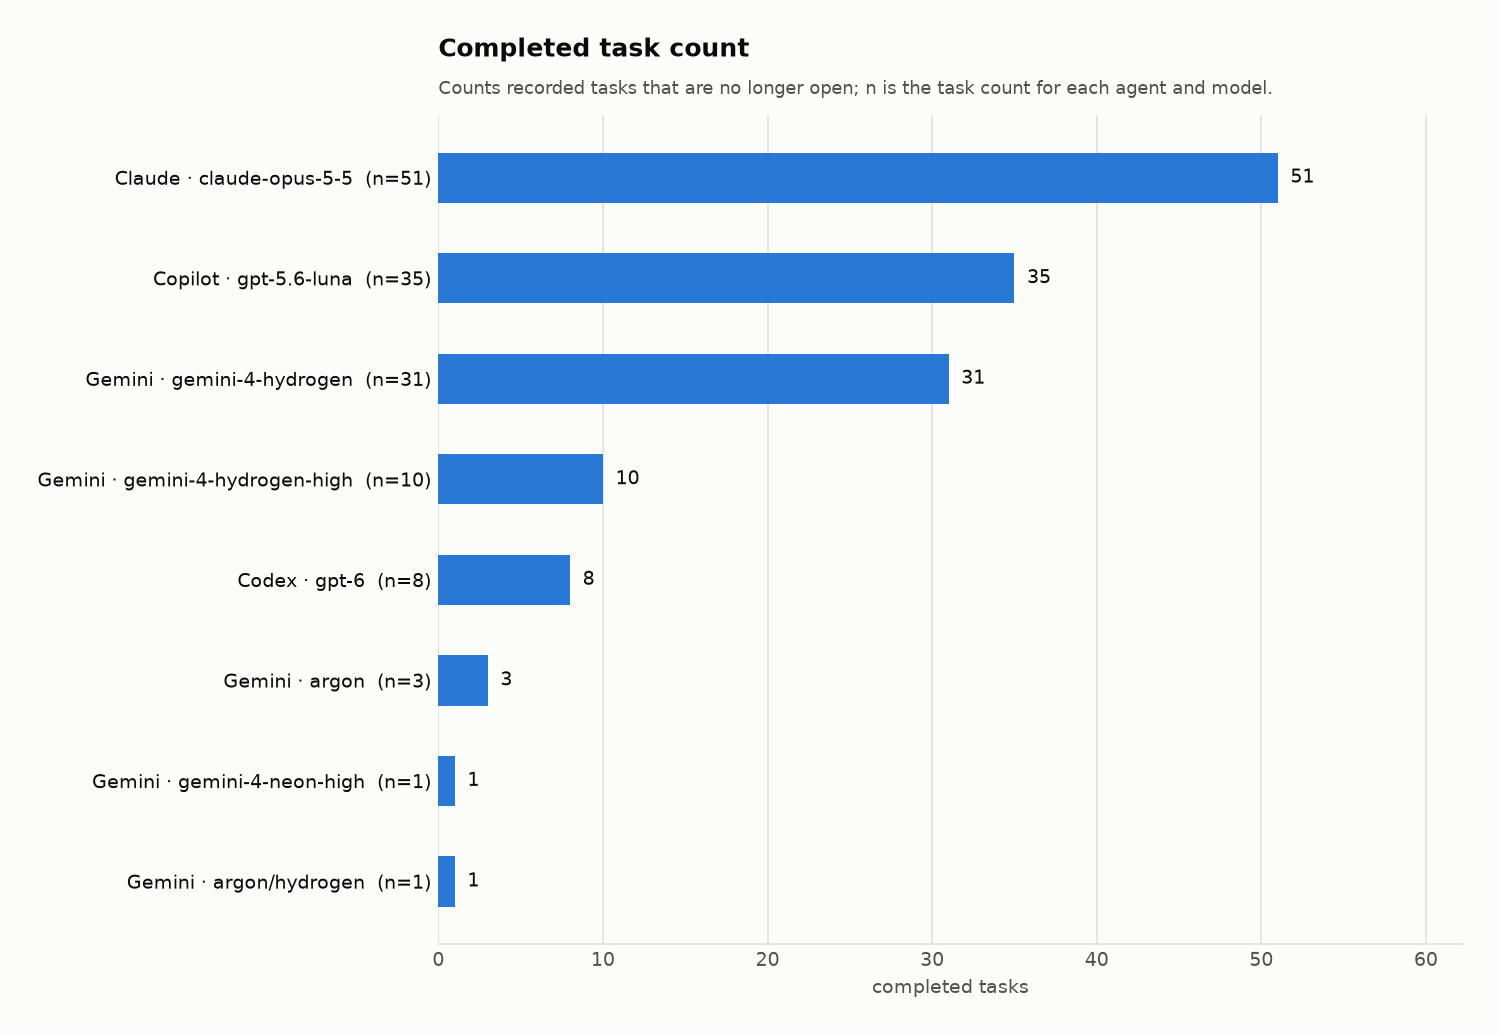
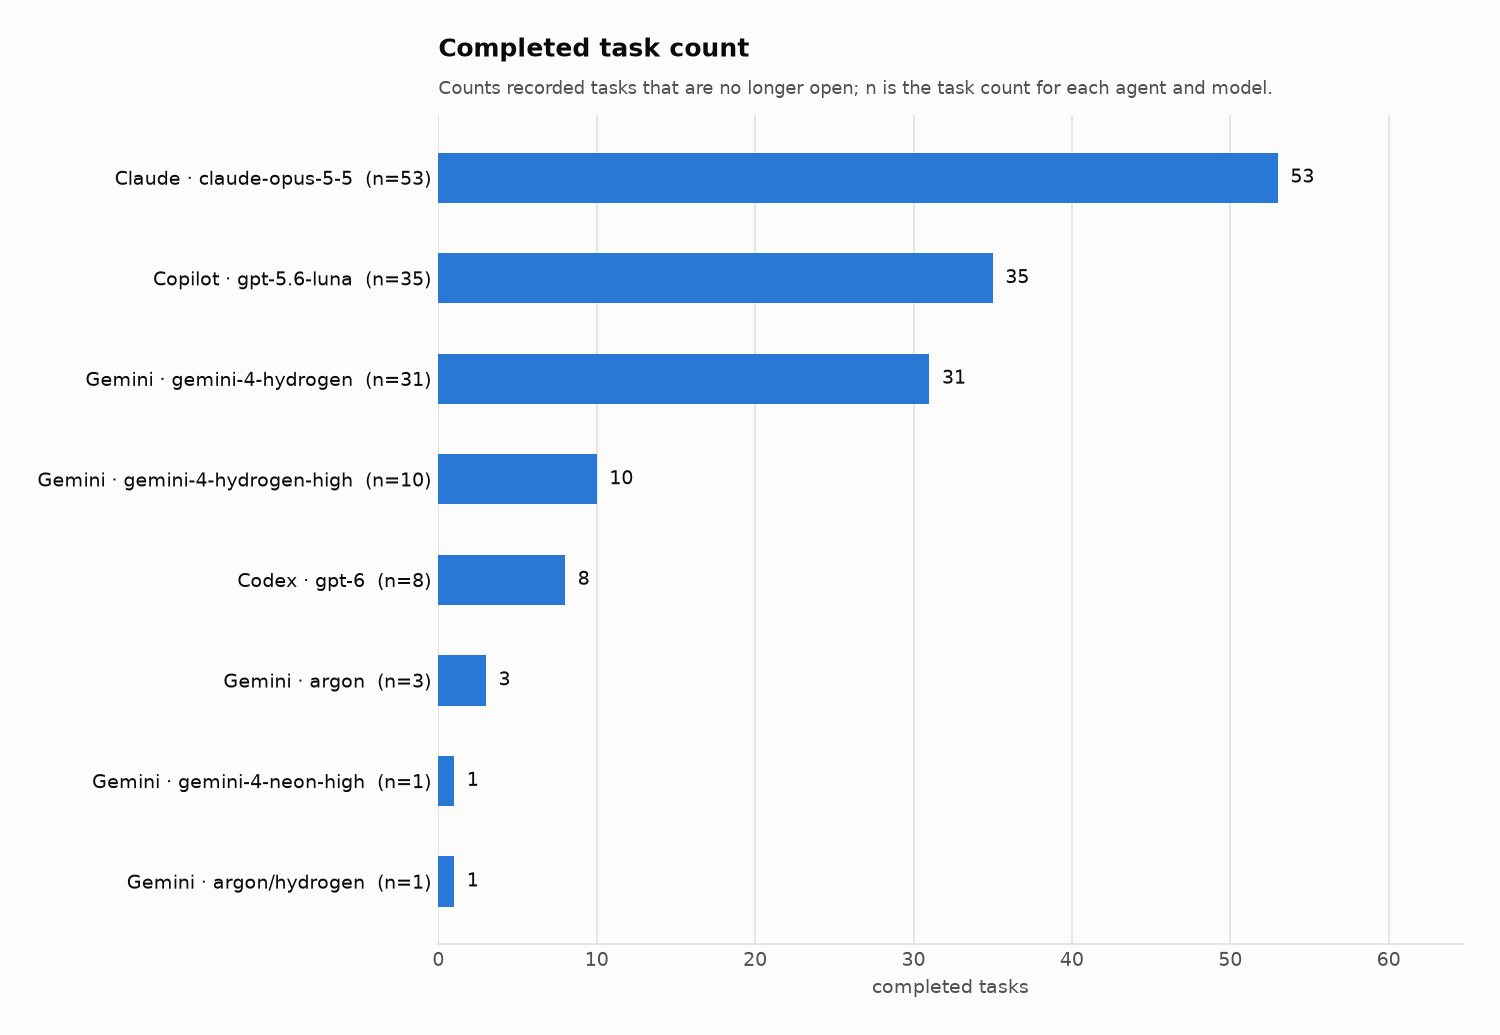
Spawns: never place a soldier inside geometry or another soldier (D66); footstep sync probe (B9)
SpawnPoint.ClearPosition tests the soldier capsule at the chosen spawn and,
when it is blocked by level geometry, an invisible wall or another
soldier, uses the nearest clear NavMesh point on the same floor (rings up
to 4 m), logging each moved spawn point once. Used for the first spawn and
every respawn. The pose check's gait stages now report FOOTSYNC: footstep
events against touchdowns of the visible feet.

diff --git a/Assets/LR2/Runtime/Characters/FirstPersonPoseCheck.cs b/Assets/LR2/Runtime/Characters/FirstPersonPoseCheck.cs
@@ -1217,6 +1217,49 @@ namespace LR2.Characters
         /// world speed along the move direction is the slide. Natural clip speed = (move speed - slide) / LocoSpeed;
         /// set SoldierMovement's *AnimReferenceSpeed to that value for zero foot sliding.
         /// </summary>
+        /// <summary>Touchdown = first frame a visible foot is back within 2 cm of its lowest height after rising 3.5 cm above it.</summary>
+        private static List<float> Touchdowns(List<float> t, List<float> h)
+        {
+            var result = new List<float>();
+            float min = float.MaxValue;
+            foreach (var v in h) min = Mathf.Min(min, v);
+            bool lifted = false;
+            for (int i = 0; i < h.Count; i++)
+            {
+                if (h[i] > min + 0.035f) lifted = true;
+                else if (lifted && h[i] < min + 0.02f) { result.Add(t[i]); lifted = false; }
+            }
+            return result;
+        }
+
+        private static string FootSync(string label, List<float> t, List<float> hl, List<float> hr, List<float> steps)
+        {
+            var downs = Touchdowns(t, hl);
+            downs.AddRange(Touchdowns(t, hr));
+            downs.Sort();
+            var dts = new List<float>();
+            int unmatchedSteps = 0;
+            foreach (float st in steps)
+            {
+                float best = float.MaxValue;
+                foreach (float d in downs) best = Mathf.Min(best, Mathf.Abs(st - d));
+                if (best <= 0.15f) dts.Add(best * 1000f); else unmatchedSteps++;
+            }
+            int missed = 0;
+            foreach (float d in downs)
+            {
+                float best = float.MaxValue;
+                foreach (float st in steps) best = Mathf.Min(best, Mathf.Abs(st - d));
+                if (best > 0.15f) missed++;
+            }
+            dts.Sort();
+            string stats = dts.Count > 0
+                ? $"median|dt|={dts[dts.Count / 2]:0} ms p90={dts[Mathf.Min(dts.Count - 1, (int)(dts.Count * 0.9f))]:0} ms max={dts[dts.Count - 1]:0} ms"
+                : "no matched steps";
+            return $"FOOTSYNC [{label}] footstepEvents={steps.Count} visibleTouchdowns={downs.Count} {stats} " +
+                   $"stepsWithoutTouchdown={unmatchedSteps} touchdownsWithoutStep={missed} (match window 150 ms)";
+        }
+
         private IEnumerator MeasureGait(string label, float seconds)
         {
             var drv = _proxy != null ? _proxy.Driver : null;
@@ -1228,6 +1271,14 @@ namespace LR2.Characters
             var sl = new List<float>(); var sr = new List<float>();
             float speed = 0f, loco = 0f;
             int n = 0;
+            // B9: footstep events vs touchdowns of the VISIBLE (SWAT) feet, timed independently of SoldierMovement's driver-foot rule
+            var vis = _proxy != null ? _proxy.Visual : null;
+            var vlf = vis != null && vis.isHuman ? vis.GetBoneTransform(HumanBodyBones.LeftFoot) : null;
+            var vrf = vis != null && vis.isHuman ? vis.GetBoneTransform(HumanBodyBones.RightFoot) : null;
+            var ft = new List<float>(); var fvl = new List<float>(); var fvr = new List<float>();
+            var steps = new List<float>();
+            Action<float> onStep = _ => steps.Add(Time.time);
+            _soldier.Movement.Footstep += onStep;
             float end = Time.time + seconds;
             yield return null;
             while (Time.time < end)
@@ -1259,10 +1310,17 @@ namespace LR2.Characters
                             $"{(cam != null ? cam.transform.eulerAngles.y : 0f):0.000},{(cam != null ? cam.transform.eulerAngles.x : 0f):0.000}\n");
                     }
                 }
+                if (vlf != null && vrf != null)
+                {
+                    float g = _soldier.transform.position.y;
+                    ft.Add(Time.time); fvl.Add(vlf.position.y - g); fvr.Add(vrf.position.y - g);
+                }
                 pl = lf.position;
                 pr = rf.position;
                 yield return null;
             }
+            _soldier.Movement.Footstep -= onStep;
+            if (ft.Count > 10) Note(FootSync(label, ft, fvl, fvr, steps));
             if (n == 0) { Note($"GAIT [{label}] not moving"); yield break; }
             speed /= n; loco /= n;
             // stance = foot within 1.5 cm of its lowest point in the window (planted, not swinging or airborne)

diff --git a/Assets/LR2/Runtime/Game/SpawnPoint.cs b/Assets/LR2/Runtime/Game/SpawnPoint.cs
@@ -1,6 +1,8 @@
 using System.Collections.Generic;
 using LR2.Combat;
+using LR2.Core;
 using UnityEngine;
+using UnityEngine.AI;
 
 namespace LR2.Game
 {
@@ -27,7 +29,57 @@ namespace LR2.Game
             Gizmos.DrawLine(p + Vector3.up * 1.5f, p + Vector3.up * 1.5f + transform.forward * 0.8f);
         }
 
+        // ------------------------------------------------------------------ D66: never spawn inside geometry or another soldier
+        private const float SoldierRadius = 0.38f, SoldierHeight = 1.8f; // LR2_Soldier CharacterController
+        private static readonly Collider[] OverlapBuffer = new Collider[16];
+        private static readonly HashSet<string> Reported = new HashSet<string>();
+
+        /// <summary>
+        /// D66 (user 11-18: "sometimes player get inside objects"): a spawn point can end up inside a prop (map edits, props
+        /// placed later, cover that moved) or another soldier can be standing on it. Tests the soldier capsule at the point
+        /// and, when it is blocked, returns the nearest clear NavMesh point on the same floor, on rings up to 4 m away.
+        /// </summary>
+        public static Vector3 ClearPosition(Vector3 desired, Combatant ignore = null, string label = null)
+        {
+            if (IsClear(desired, ignore)) return desired;
+            for (float r = 0.7f; r <= 4.05f; r += 0.65f)
+            {
+                for (int i = 0; i < 12; i++)
+                {
+                    Vector3 c = desired + Quaternion.Euler(0f, i * 30f + r * 17f, 0f) * Vector3.forward * r;
+                    if (NavMesh.SamplePosition(c, out var hit, 1.2f, NavMesh.AllAreas)) c = hit.position;
+                    if (Mathf.Abs(c.y - desired.y) > 1.2f) continue; // not another floor
+                    if (!IsClear(c, ignore)) continue;
+                    if (label != null && Reported.Add(label))
+                        Debug.Log($"[LR2] Spawn '{label}' at {desired} was blocked; used a clear point {Vector3.Distance(desired, c):0.0} m away.");
+                    return c;
+                }
+            }
+            if (label != null && Reported.Add(label)) Debug.LogWarning($"[LR2] Spawn '{label}' at {desired} is blocked and no clear point was found within 4 m.");
+            return desired;
+        }
+
+        public static bool IsClear(Vector3 feet, Combatant ignore = null)
+        {
+            Vector3 p0 = feet + Vector3.up * (SoldierRadius + 0.06f);
+            Vector3 p1 = feet + Vector3.up * (SoldierHeight - SoldierRadius);
+            int mask = LR2Layers.EnvironmentMask | (1 << LR2Layers.PlayerClip) | (1 << LR2Layers.Character);
+            int n = Physics.OverlapCapsuleNonAlloc(p0, p1, SoldierRadius * 0.92f, OverlapBuffer, mask, QueryTriggerInteraction.Ignore);
+            for (int i = 0; i < n; i++)
+            {
+                var col = OverlapBuffer[i];
+                if (col == null) continue;
+                if (ignore != null && col.transform.IsChildOf(ignore.transform)) continue;
+                return false;
+            }
+            return true;
+        }
+
         [RuntimeInitializeOnLoadMethod(RuntimeInitializeLoadType.SubsystemRegistration)]
-        private static void ResetStatics() => Registry.Clear();
+        private static void ResetStatics()
+        {
+            Registry.Clear();
+            Reported.Clear();
+        }
     }
 }

diff --git a/Assets/LR2/Runtime/Game/MatchManager.cs b/Assets/LR2/Runtime/Game/MatchManager.cs
@@ -265,7 +265,7 @@ namespace LR2.Game
         private Combatant Spawn(GameObject prefab, TeamId team, string displayName, bool local)
         {
             var sp = PickSpawn(team, null);
-            Vector3 pos = sp != null ? sp.transform.position : Vector3.zero;
+            Vector3 pos = sp != null ? SpawnPoint.ClearPosition(sp.transform.position, null, sp.name) : Vector3.zero;
             float yaw = sp != null ? sp.transform.eulerAngles.y : 0f;
             if (sp != null) sp.lastUsedTime = Time.time;
 
@@ -352,7 +352,8 @@ namespace LR2.Game
                 if (soldier == null) continue;
                 var sp = PickSpawn(c.Team, c);
                 if (sp != null) sp.lastUsedTime = Time.time;
-                soldier.Respawn(sp != null ? sp.transform.position : c.Position, sp != null ? sp.transform.eulerAngles.y : 0f);
+                Vector3 at = sp != null ? SpawnPoint.ClearPosition(sp.transform.position, c, sp.name) : c.Position;
+                soldier.Respawn(at, sp != null ? sp.transform.eulerAngles.y : 0f);
                 soldier.ControlsEnabled = State == MatchState.Playing;
             }
         }

diff --git a/AGENT_COORDINATION.md b/AGENT_COORDINATION.md
@@ -229,6 +229,7 @@ task quality per agent and model (chart in [Docs/AI_Collaboration](Docs/AI_Colla
 | B82 | bug | Flames, smoke and other effects are opaque boxes (user 14:12 "MUST FIX"; 14:16 "use the unity built in particle effects") | Claude | claude-opus-5-5 | Gemini | VERIFIED (code) | D60 | 19:39 | Runtime HDRP/Unlit transparent materials lose their variant in player builds; FireHazard's Resources path never existed. `LR2FxLibrary` (Resources) with LR2/ParticleUnlit materials and a validated HDRP haze template; fire and smoke use the Unity Particle Pack flipbooks (6x6, 8x8). Verify in the 11.18.26.5 player build. **Gemini review 19:39 (`LR2FxLibrary.cs`, `LR2_ParticleUnlit.shader`, `LR2ContentBuilder.BuildRuntimeFxLibrary`, `FireHazard.cs`, `AtmosphereFX.cs`, `LR2Firearm.cs`, `HeatHazeEmitter.cs`, `Resources/LR2/FXLibrary.asset` + 7 saved `.mat` assets): VERIFIED (code).** Keyword-free transparent `LR2/ParticleUnlit` (`ZWrite Off`, `Queue=Transparent`) + Particle Pack `Explosion.tif` (6x6) & `smokeysteam.tif` (8x8, `alphaUsage=1`) + `HDMaterial.ValidateMaterial`-validated distortion-only `M_FX_HeatHaze.mat` template are wired cleanly. **Player-build visual check still needs a run** in `H:/Unity Projects/Builds/Lead Rush 2` (`11.18.26.5`) on a combat map with burning barrels/smoke (headless run could not click past the main menu). |
 | B83 | feature | Bots: stop looking up while searching, smarter and more aggressive, Veteran actually wins (user 14:10) + docs | Claude | claude-opus-5-5 | Gemini | READY FOR REVIEW | D61 | 19:48 | Grounded noise positions + horizon search scan; per-preset detection speed (Veteran 2.2: 0.34 s at 20 m, was 0.74) and composure (Veteran 0.72); Hardened/Veteran press a reloading/hurt target. Docs: `Docs/LR2_Bot_Explainer.md` section 4b, Bot Lab presets. **Gemini review 19:39 (`BotController.cs`, `BotPerception.cs`, `TacticalBotBrain.cs`, `BotDifficulty*.asset`, `LR2ContentBuilder.BuildData`, `Docs/LR2_Bot_Explainer.md` §4b, `Docs/Bot/bot-lab.html`): REOPENED (`D65`).** Per-preset `detectionSpeed`/`composure`, grounded noise (`BotPerception.GroundPoint`), horizon search scan (`±75°`, `eye.y-0.12`, `+10°/-22°`), and docs match cleanly, **but `TacticalBotBrain.cs:302-319` has a dead sprint branch:** line 302 `if (dist > intent.desiredRange * 1.35f || !bb.targetVisible)` catches every `!bb.targetVisible` case without setting `allowSprint`, so the `else if` at line 312 only ever runs when `bb.targetVisible == true`, making line 318 `intent.allowSprint = !bb.targetVisible && dist > 9f;` unconditionally `false`. Hardened/Veteran bots therefore never sprint to press an out-of-sight reloading/hurt target `> 9 m` away. Fix the branch order/condition in `TacticalBotBrain.cs:302-319`. **Claude 19:48 (D65 fixed):** the press-a-vulnerable-target test now comes first in `Engage`, so an out-of-sight reloading/hurt target more than 9 m away is sprinted to; `Hunt` also skips the slow corner slicing and sprints (> 9 m) when pressing. Runtime 0 errors. |
 | B84 | tune | Player tracers orange/yellow (enemy red); enemy laser off once they die (user 14:16) | Claude | claude-opus-5-5 | Gemini | VERIFIED (code + logs) | - | 19:39 | `Tracer` friendly colours; `DropWeapon` strips the beam and dot from the dropped copy (and its scope cameras). **Gemini review 19:39 (`Tracer.cs:14-17`, `SoldierController.DropWeapon:786-798`, `C21`-`C24` `Errors (game): 0`): VERIFIED (code + logs).** `FriendlyTracerStart=(1.00,0.86,0.46,1)` / `FriendlyTracerEnd=(1.00,0.55,0.12,0.42)` sets yellow/orange friendly tracers while enemy stays red; `DropWeapon` clears/disables scope `Camera`s, destroys `LineRenderer`s and `LaserDot`/`LaserBeam` children, and excludes them from dropped collider bounds. |
+| B85 | bug | Spawns put players inside objects; some objects such as pipes are super thin; clipping (user 19:5x) | Claude | claude-opus-5-5 | Gemini | IN PROGRESS | - | 19:59 | **D66 done (code):** `SpawnPoint.ClearPosition` tests the soldier capsule (0.38 x 1.8 m) against geometry, invisible walls and other soldiers at every spawn and respawn (`MatchManager.Spawn` / `ProcessRespawns`) and moves a blocked spawn to the nearest clear NavMesh point on the same floor (rings up to 4 m), logging each moved spawn point once. Next (needs Unity, the user editor is open): prop audit of every pack prop on the four maps (thinnest dimension vs length, non-uniform `FittedPackProp` squash, overlaps with other props and walls), then fix the thin pipes in the builders. |
 
 ## 4. Ownership (who may edit what)
 
@@ -616,3 +617,4 @@ You are **Codex** (OpenAI Codex CLI / VS Code agent), the fourth agent on the **
 - [Claude claude-opus-5-5 19:48] [PLAN] User: only Claude and Gemini are up; Claude takes the hard rows, Gemini the easy ones (split in the NOTE above section 1). D65 (Gemini catch) fixed, B83 READY FOR REVIEW. Committed Gemini's 19:39 review edits for it (headless Gemini cannot run git).
 - [Claude claude-opus-5-5 19:53] [REVIEW] VERIFIED: B4, B5, B8, B24, B30, B39, B46, B48, B50, B51, B52, B53, B61, P3 (evidence in each row). B41 kept READY FOR REVIEW (no capture of the zone look yet; added to Gemini's easy list). Unity: the user opened the editor via Hub at 19:47, so the B26/B49 grip check waits for it to close.
 - [Claude claude-opus-5-5 19:55] [READY FOR REVIEW] B14.1 (C26 is the clean post-fix killcam capture), B18 (player logs 19:23/19:25: intro + menu + clean exit; in-match robot run owed). B26/B49 grip check waits for the user's editor (opened 19:47 via Hub).
+- [Claude claude-opus-5-5 19:59] [IN PROGRESS] B85 (user: spawning inside objects, super-thin pipes, clipping): D66 spawn capsule check + nearest clear NavMesh point in code; prop audit waits for Unity. B9 FOOTSYNC probe added to the gait stages (needs a run).

diff --git a/Docs/AI_Collaboration/figures/tasks_log.md b/Docs/AI_Collaboration/figures/tasks_log.md
@@ -1,6 +1,8 @@
 <!-- generated by analysis/analyze.py from data/tasks.csv; shows the explicit origin/source of every task -->
 | ID | When (ET) | Agent / model | Board | Kind | Outcome | Difficulty | Rating timing | Rating basis | Task | Source (Prompt / Board / Evidence) |
 |---|---|---|---|---|---|---|---|---|---|---|
+| `C53` | 2026-11-18 19:59 | Claude / `claude-opus-5-5` | B9 | tooling | delivered | unrated | - | - | Footstep sync probe: footstep events vs visible-foot touchdowns in the gait stages (B9) | FirstPersonPoseCheck.cs FOOTSYNC lines |
+| `C52` | 2026-11-18 19:59 | Claude / `claude-opus-5-5` | B85 | fix | ready-for-review | unrated | - | - | Spawn capsule test + nearest clear NavMesh point at every spawn and respawn (D66) | SpawnPoint.cs, MatchManager.cs; Runtime 0 errors |
 | `C51` | 2026-11-18 19:55 | Claude / `claude-opus-5-5` | B18 | test | ready-for-review | unrated | - | - | B18 D3D12 warmup crash: player-log evidence for 11.18.26.5 (intro + menu + clean exit) | Player.log / Player-prev.log 19:23-19:25 |
 | `C50` | 2026-11-18 19:55 | Claude / `claude-opus-5-5` | B14.1 | test | ready-for-review | unrated | - | - | B14.1 killcam: post-fix evidence from C26 (no frozen laser, no floating dot, 0 errors) | Logs/LR2_PoseCheck_C26_mk18 kc_01..kc_08 |
 | `C49` | 2026-11-18 19:53 | Claude / `claude-opus-5-5` | B26/B49 | tooling | delivered | unrated | - | - | Grip check harness (-lr2GripCheck): palm centres in weapon space + gun underside profile + close-ups (B26/B49) | FirstPersonPoseCheck.cs; run waits for the user editor to close |

diff --git a/Docs/AI_Collaboration/figures/summary.md b/Docs/AI_Collaboration/figures/summary.md
@@ -1,7 +1,7 @@
 <!-- generated by analysis/analyze.py from data/*.csv; do not edit by hand -->
 | Agent / model | Raw score | Difficulty-adjusted score | Active hours | Quota stops | Adjusted points / hour | Time-adjusted score | Tasks | Peer-rated tasks (retro / pre-work) | Weighted task credit | Bugs found (others / own) | Suggestions (adopted / pending) | Escaped defects, weighted (count) | Escaped per 10 tasks | Review catches | Pre-push breaks |
 |---|---|---|---|---|---|---|---|---|---|---|---|---|---|---|---|
-| Claude · claude-opus-5-5 | 89.1 | 89.1 | 4.8h | 6 | 18.6 | **78.3** | 51 | 21 (21 / 0) | 18.00 | 16 / 5 | 10 / 2 | 6.7 (9) | 1.3 | 7 | 2 |
+| Claude · claude-opus-5-5 | 89.6 | 89.6 | 4.8h | 6 | 18.7 | **78.8** | 53 | 21 (21 / 0) | 18.50 | 16 / 5 | 10 / 2 | 6.7 (9) | 1.3 | 7 | 2 |
 | Copilot · gpt-5.6-luna | 32.5 | 31.5 | 3.5h | 1 | 9.0 | **33.8** | 35 | 35 (35 / 0) | 20.50 | 6 / 0 | 0 / 0 | 2.0 (2) | 0.6 | 6 | 0 |
 | Gemini · gemini-4-hydrogen | 3.1 | 5.2 | 11.5h | 0 | 0.5 | **22.5** | 31 | 30 (30 / 0) | 14.62 | 1 / 0 | 0 / 0 | 4.2 (6) | 1.4 | 8 | 0 |
 | Gemini · gemini-4-hydrogen-high | 14.5 | 14.5 | 1.5h | 0 | 9.7 | **16.8** | 10 | 0 (0 / 0) | 4.50 | 0 / 6 | 0 / 0 | 0.0 (0) | 0.0 | 4 | 0 |

diff --git a/Docs/AI_Collaboration/figures/protocol_periods.md b/Docs/AI_Collaboration/figures/protocol_periods.md
@@ -3,4 +3,4 @@
 |---|---|---|---|---|---|
 | v1: before 11-17 23:25 | 23 | 13.8 | 6.0 | 1 | 0.4 |
 | v2: 11-17 23:25 to 11-18 00:05 | 15 | 2.0 | 1.3 | 8 | 5.3 |
-| v3: after 11-18 00:05 | 102 | 5.9 | 0.6 | 28 | 2.7 |
+| v3: after 11-18 00:05 | 104 | 6.9 | 0.7 | 28 | 2.7 |
